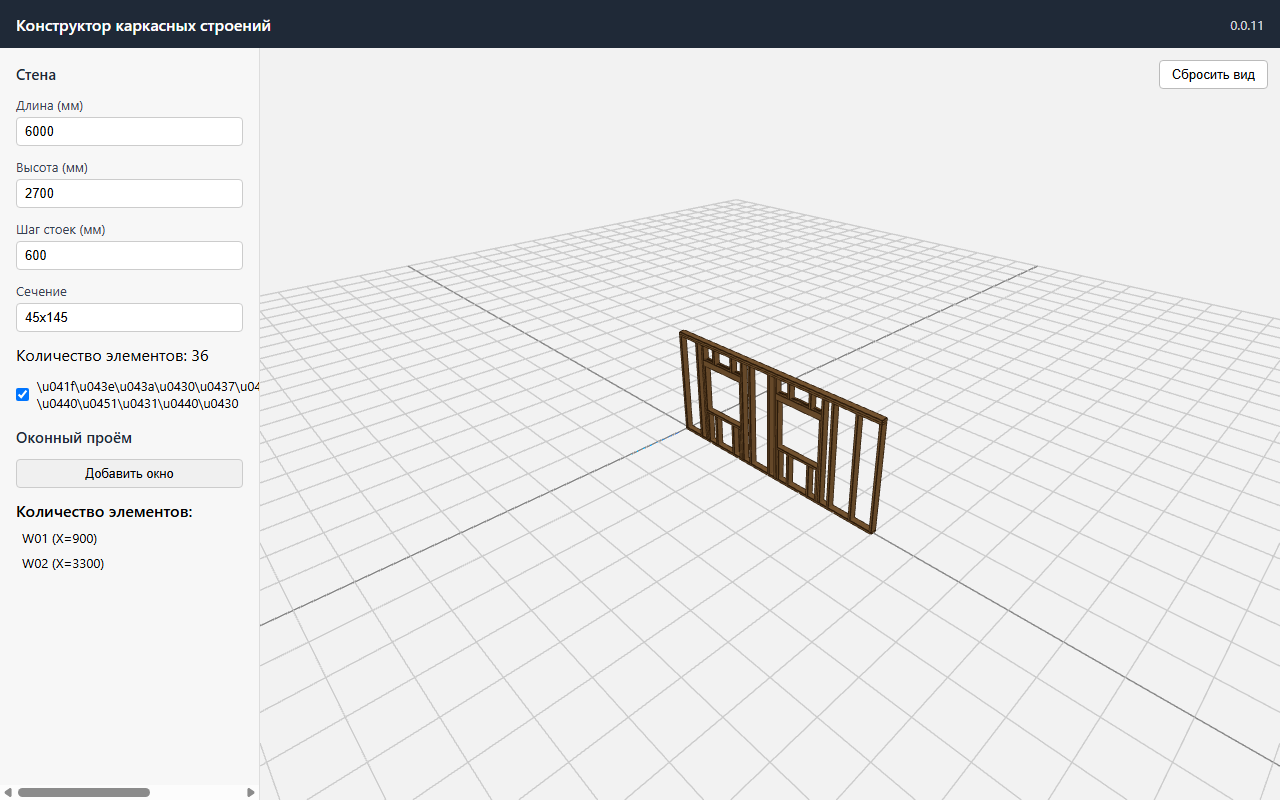
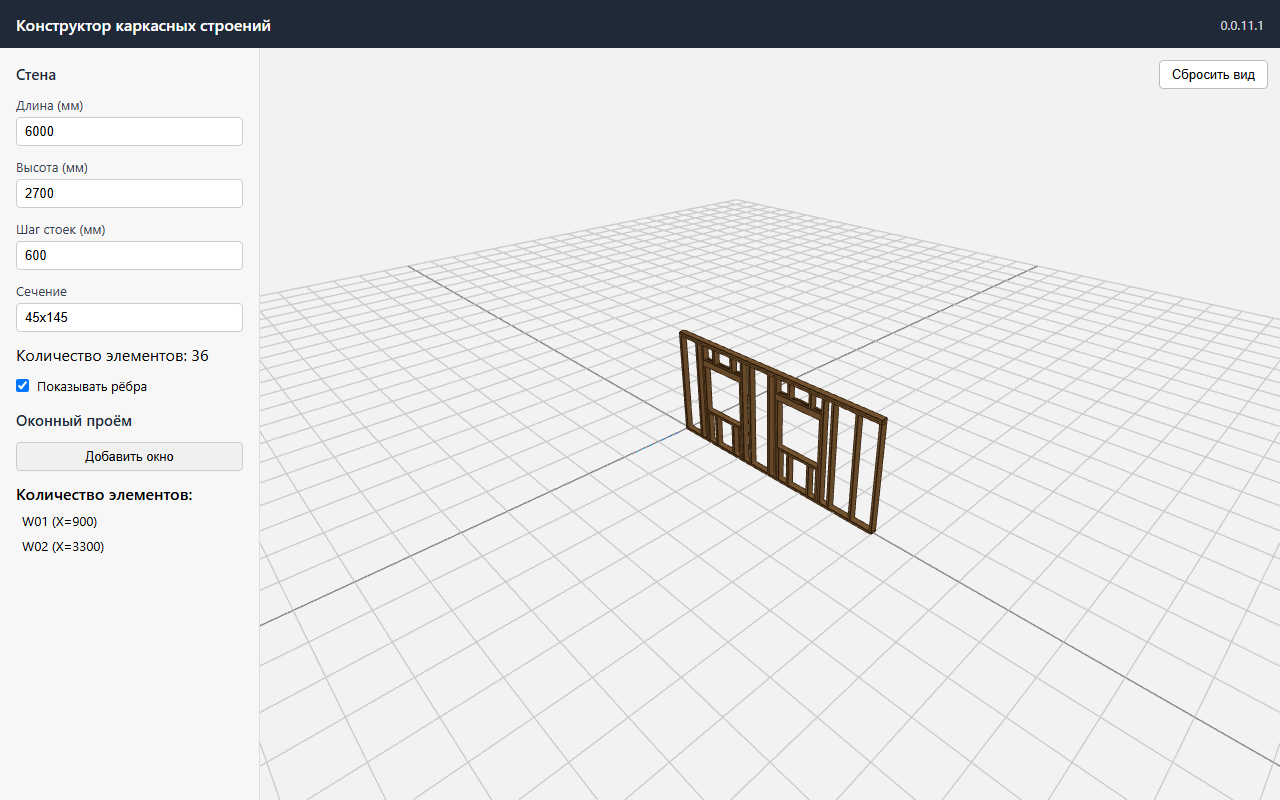
12

Changed region(s): [[0.0, 0.4688, 0.2188, 0.7188], [0.0, 0.9688, 0.125, 1.0]]

diff --git a/src/scene/SceneView.tsx b/src/scene/SceneView.tsx
@@ -4,12 +4,14 @@ import * as THREE from 'three'
 import { OrbitControls } from 'three/examples/jsm/controls/OrbitControls.js'
 import { generateTimberGeometry, boxCenterWorld, mmToMeters, type TimberElement } from '../core/timber'
 import type { WindowOpening } from '../core/window'
+import { getWindowPositionBounds } from '../core/window'
 
 interface SceneViewProps {
   elements: TimberElement[]
   selectedId: string | null
   showEdges?: boolean
   openings: WindowOpening[]
+  wallLength?: number
   selectedWindowId: string | null
   onWindowSelect?: (id: string | null) => void
   onWindowXChange?: (id: string, x: number) => void
@@ -31,7 +33,7 @@ interface WindowEntry {
 
 export function SceneView({
   elements, selectedId, showEdges = true,
-  openings, selectedWindowId, onWindowSelect, onWindowXChange, onSelect,
+  openings, wallLength = 3000, selectedWindowId, onWindowSelect, onWindowXChange, onSelect,
 }: SceneViewProps) {
   const containerRef = useRef<HTMLDivElement>(null)
   const sceneRef = useRef<THREE.Scene | null>(null)
@@ -47,6 +49,7 @@ export function SceneView({
   const openingsRef = useRef<WindowOpening[]>(openings)
   const windowSelectedRef = useRef<string | null>(selectedWindowId)
   const hasCenteredRef = useRef<boolean>(false)
+  const wallLengthRef = useRef<number>(wallLength)
 
   const draggingRef = useRef<{ id: string; startX: number; startPointer: number } | null>(null)
   const rafRef = useRef<number | null>(null)
@@ -58,6 +61,7 @@ export function SceneView({
   useEffect(() => { selectedRef.current = selectedId }, [selectedId])
   useEffect(() => { showEdgesRef.current = showEdges }, [showEdges])
   useEffect(() => { openingsRef.current = openings }, [openings])
+  useEffect(() => { wallLengthRef.current = wallLength }, [wallLength])
   useEffect(() => { windowSelectedRef.current = selectedWindowId }, [selectedWindowId])
 
   // mount
@@ -111,15 +115,12 @@ export function SceneView({
     }
 
     const clampX = (id: string, x: number, w: number) => {
+      const win = openingsRef.current.find((o) => o.id === id)
+      if (!win) return x
       const others = openingsRef.current.filter((o) => o.id !== id)
-      let minX = 135
-      let maxX = 3000 - w - 135
-      for (const o of others) {
-        const frameMax = o.positionXmm + o.widthMm + 90
-        const frameMin = o.positionXmm - 90
-        if (o.positionXmm < x) minX = Math.max(minX, frameMax + 90)
-        else maxX = Math.min(maxX, frameMin - w - 90)
-      }
+      const bounds2 = getWindowPositionBounds(wallLengthRef.current, { positionXmm: x, widthMm: w }, others)
+      const minX = bounds2.minX
+      const maxX = bounds2.maxX
       return Math.max(minX, Math.min(maxX, x))
     }
 

diff --git a/src/App.tsx b/src/App.tsx
@@ -91,7 +91,7 @@ export default function App() {
     <div className="app">
       <header className="top-bar">
         <span className="app-title">Конструктор каркасных строений</span>
-        <span className="app-version">0.0.11</span>
+        <span className="app-version">0.0.11.1</span>
       </header>
       <div className="main">
         <aside className="left-panel">
@@ -115,7 +115,7 @@ export default function App() {
           <div className="param-group">
             <label style={{ display: 'flex', alignItems: 'center', gap: 8, fontSize: 13 }}>
               <input type="checkbox" checked={showEdges} onChange={(e) => setShowEdges(e.target.checked)} />
-              \u041f\u043e\u043a\u0430\u0437\u044b\u0432\u0430\u0442\u044c \u0440\u0451\u0431\u0440\u0430
+              Показывать рёбра
             </label>
           </div>
 
@@ -174,7 +174,7 @@ export default function App() {
         <main className="viewport-wrap">
           <ErrorBoundary>
             <SceneView elements={elements} selectedId={selectedId} showEdges={showEdges}
-              openings={openings} selectedWindowId={selectedWindowId}
+              openings={openings} selectedWindowId={selectedWindowId} wallLength={length}
               onWindowXChange={(id, x) => updateWindow(id, { positionXmm: x })}
               onWindowSelect={setSelectedWindowId}
               onSelect={setSelectedId} />

diff --git a/src/core/window.ts b/src/core/window.ts
@@ -235,3 +235,35 @@ export function generateWallWithWindow(params: WallPanelParams, win: WindowOpeni
   const elements = applyWindowOpening(base.elements, win)
   return { id: 'wall-with-window', elements }
 }
+
+
+export interface WindowBounds {
+  minX: number
+  maxX: number
+}
+
+export function getWindowPositionBounds(
+  wallLength: number,
+  selectedWindow: { positionXmm: number; widthMm: number },
+  otherOpenings: { positionXmm: number; widthMm: number }[],
+): WindowBounds {
+  const w = selectedWindow.widthMm
+  let minX = 135
+  let maxX = wallLength - w - 135
+  for (const o of otherOpenings) {
+    const otherFrameMax = o.positionXmm + o.widthMm + 90
+    const otherFrameMin = o.positionXmm - 90
+    if (o.positionXmm < selectedWindow.positionXmm) {
+      // other is to the left: selected minX must be >= otherFrameMax + 90
+      minX = Math.max(minX, otherFrameMax + 90)
+    } else {
+      // other is to the right: selected maxX must be <= otherFrameMin - w - 90
+      maxX = Math.min(maxX, otherFrameMin - w - 90)
+    }
+  }
+  if (minX > maxX) {
+    // no valid range; collapse
+    minX = maxX
+  }
+  return { minX, maxX }
+}

diff --git a/src/core/window.test.ts b/src/core/window.test.ts
@@ -1,7 +1,7 @@
 
 import { describe, it, expect } from 'vitest'
 import * as THREE from 'three'
-import { generateWallWithWindow, applyWindowOpening } from './window'
+import { generateWallWithWindow, applyWindowOpening, getWindowPositionBounds } from './window'
 import { generateWallPanel } from './wall'
 import {
   generateTimberGeometry,
@@ -264,5 +264,18 @@ describe('Stage7 window size params', () => {
 
   it('invalid sill height throws', () => {
     expect(() => generateWallWithWindow(params, { x: 900, y: 100, width: 1200, height: 1200 })).toThrow()
+  })
+})
+
+
+describe('getWindowPositionBounds', () => {
+  it('single window in 6000 wall: max 5565 for 300 width', () => {
+    const b = getWindowPositionBounds(6000, { positionXmm: 900, widthMm: 300 }, [])
+    expect(b.minX).toBe(135)
+    expect(b.maxX).toBe(5565)
+  })
+  it('single window in 3000 wall: max 2565 for 300 width', () => {
+    const b = getWindowPositionBounds(3000, { positionXmm: 900, widthMm: 300 }, [])
+    expect(b.maxX).toBe(2565)
   })
 })
